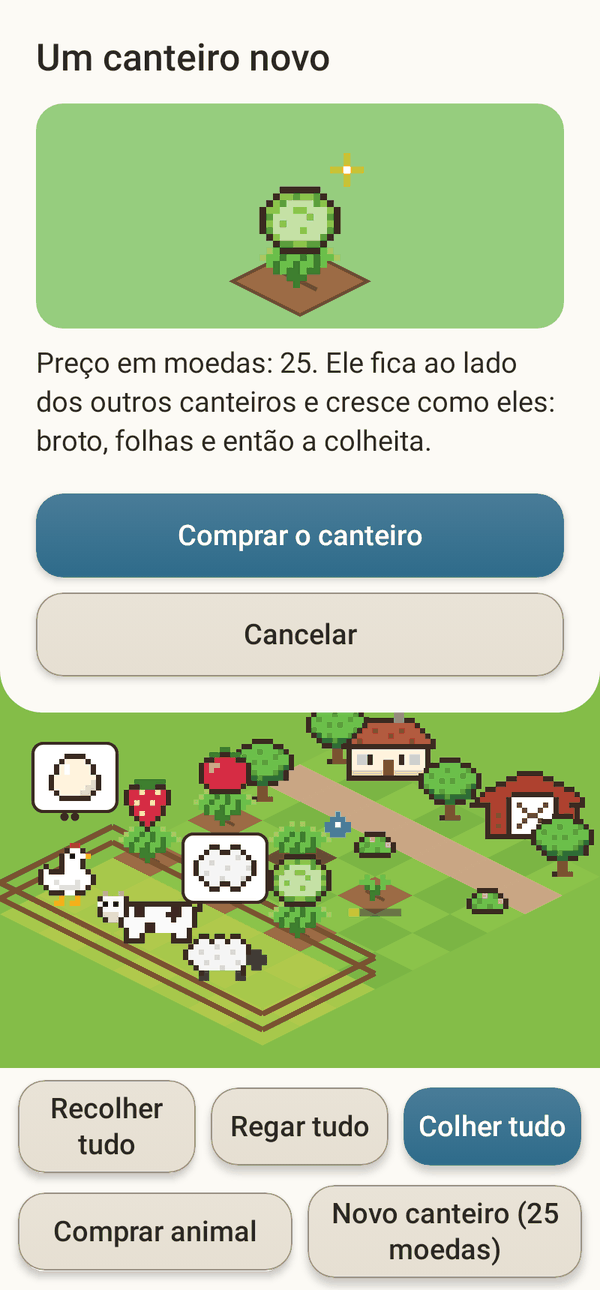
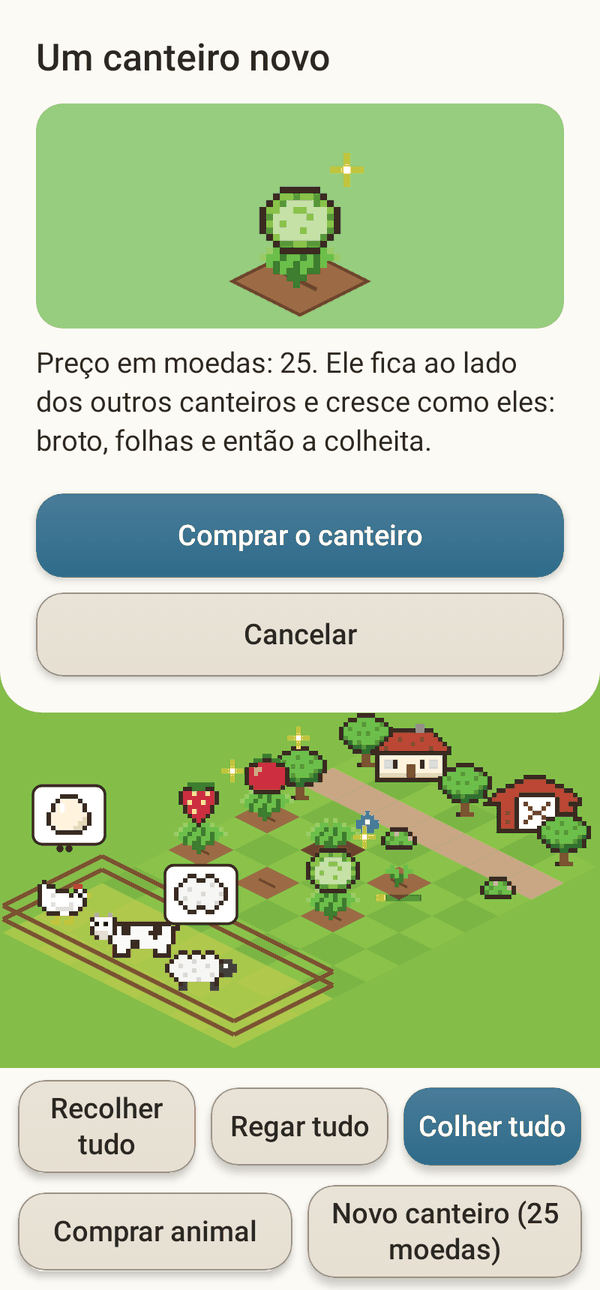
fix(farm): give the animals their own ground away from the beds (#93)
The paddock started right after the field, so the animals and their bubbles were drawn over the crops and took taps meant for them. Two rows of grass now lie between the field and the paddock.

Closes #83

Changed region(s): [[0.0, 0.5271, 0.99, 0.8062]]

diff --git a/app/src/test/java/io/github/fershibli/megagames/games/FarmTest.kt b/app/src/test/java/io/github/fershibli/megagames/games/FarmTest.kt
@@ -2,6 +2,7 @@ package io.github.fershibli.megagames.games
 
 import io.github.fershibli.megagames.games.farm.Animal
 import io.github.fershibli.megagames.games.farm.Crop
+import io.github.fershibli.megagames.games.farm.FarmMap
 import io.github.fershibli.megagames.games.farm.FarmRules
 import io.github.fershibli.megagames.games.farm.Pen
 import io.github.fershibli.megagames.games.farm.FarmWorld
@@ -132,5 +133,18 @@ class FarmTest {
         assertEquals(1, FarmRules.rescue(stuck.copy(barn = mapOf("egg" to 1))).coins)
         assertEquals(1, FarmRules.rescue(stuck.copy(pens = listOf(Pen("chicken", 0L)))).coins)
         assertEquals(30, FarmRules.rescue(FarmWorld()).coins)
+    }
+
+    @Test
+    fun theAnimalsStandOnTheirOwnGroundAwayFromTheBeds() {
+        val lastBedRow = FarmMap.plots.maxOf { it.second }
+        // A strip of grass lies between the field and the paddock, which holds every animal.
+        assertTrue(FarmMap.paddockRows.first > lastBedRow + 1)
+        FarmMap.pens.forEach { assertTrue(it.second in FarmMap.paddockRows) }
+        assertTrue(FarmMap.plots.none { it.second in FarmMap.paddockRows })
+        // A tap on a bed or an animal always finds that one, never a neighbour of the other kind.
+        val grid = FarmMap.grid(800f, 1200f, FarmMap.columns(FarmMap.plots.size, FarmMap.pens.size))
+        FarmMap.plots.forEachIndexed { i, (c, r) -> assertEquals(true to i, FarmMap.hit(grid, grid.center(c, r), FarmMap.plots.size, FarmMap.pens.size)) }
+        FarmMap.pens.forEachIndexed { i, (c, r) -> assertEquals(false to i, FarmMap.hit(grid, grid.center(c, r), FarmMap.plots.size, FarmMap.pens.size)) }
     }
 }

diff --git a/app/src/main/java/io/github/fershibli/megagames/games/farm/FarmPixels.kt b/app/src/main/java/io/github/fershibli/megagames/games/farm/FarmPixels.kt
@@ -30,8 +30,11 @@ import kotlin.math.max
 
 /** Layout of the farm in map cells (col runs down to the right, row down to the left). */
 object FarmMap {
-    /** Rows of the map: the lane and buildings at the back, the field, then the paddock in front. */
-    const val ROWS = 9
+    /**
+     * Rows of the map: the lane and buildings at the back, the field, a strip of grass, then the
+     * paddock in front. The grass keeps the animals (and their bubbles) clear of the beds.
+     */
+    const val ROWS = 11
 
     /**
      * Cells of the beds, in the order they are bought: the first six make a 3 × 2 field, and the
@@ -43,10 +46,10 @@ object FarmMap {
     )
 
     /** Cells of the animals, in a row inside the paddock in front of the field. */
-    val pens: List<Pair<Int, Int>> = listOf(0 to 7, 2 to 7, 4 to 7, 6 to 7, 8 to 7, 10 to 7)
+    val pens: List<Pair<Int, Int>> = listOf(0 to 9, 2 to 9, 4 to 9, 6 to 9, 8 to 9, 10 to 9)
 
     /** The paddock (fenced) covers these rows. */
-    val paddockRows = 6..8
+    val paddockRows = 8..10
 
     /** The lane at the back of the farm. */
     fun isLane(c: Int, r: Int) = r == 1

diff --git a/CHANGELOG.md b/CHANGELOG.md
@@ -88,6 +88,7 @@ All notable changes to this project are documented here. The format follows [Kee
 ### Fixed
 - **Farm: a new bed can no longer leave the farm stuck.** Buying one now asks first, with a picture of a bed growing from bare soil to the harvest, and needs something already sown, so there is always a harvest to sell; the new bed blinks for a few seconds to show where it went. A farm already left with nothing to sow, sell or collect gets the coins for one seed.
 - **Battleship: arrange your own fleet**: against the computer, **Arrange again** did nothing to your fleet (it rearranged the computer's hidden one). It now rearranges yours, and before the first shot you can also drag a ship to move it (it snaps to the squares and keeps the space between ships) and tap a ship to turn it; a move without room is refused gently, and **Undo** takes back the last change. Taking turns, each player arranges their own fleet the same way.
+- **Farm: the animals have their own ground.** A strip of grass now separates the paddock from the beds, so the animals and their bubbles no longer cover the crops or catch the taps meant for them.
 
 ## [1.0.0] - 2026-10-19
 
